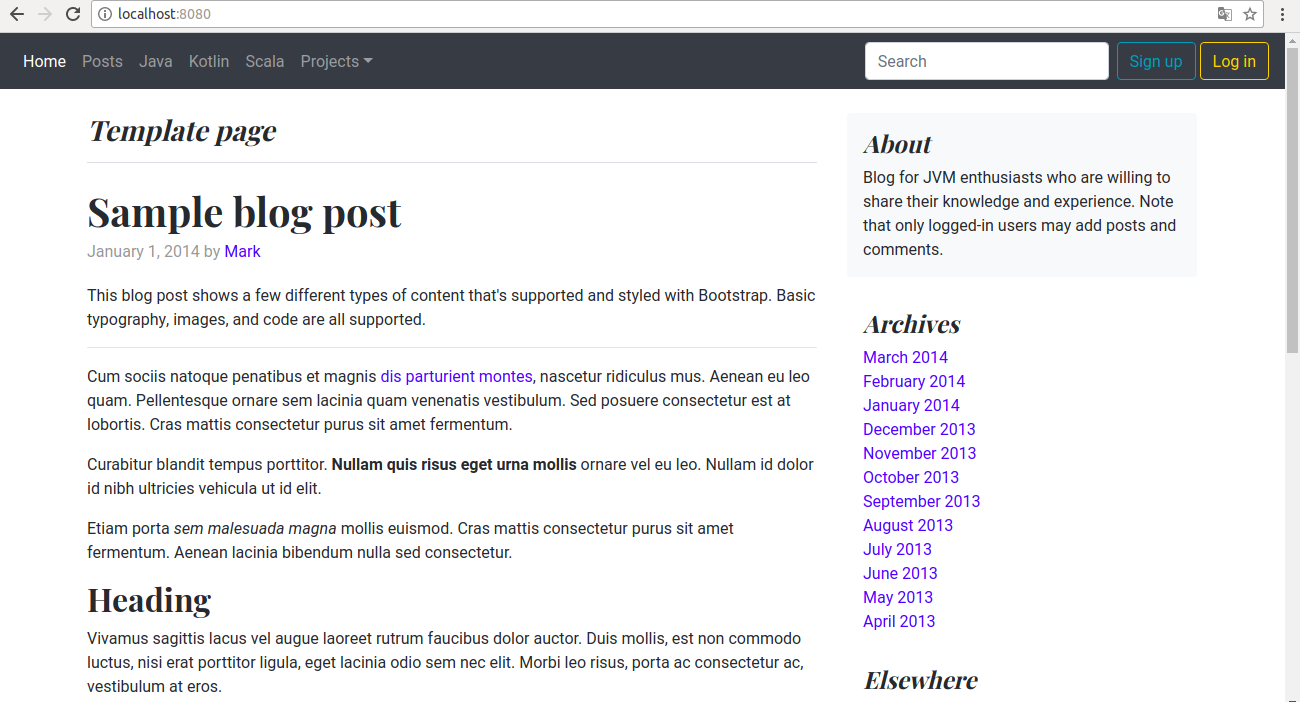
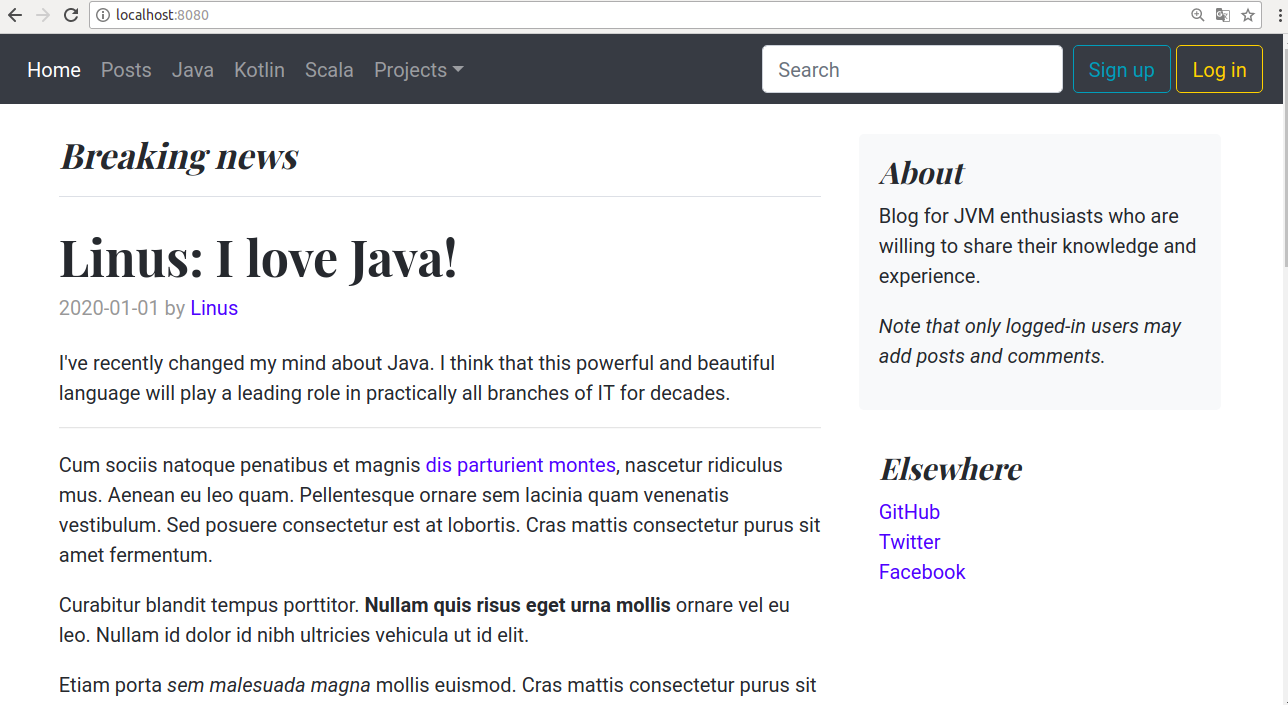
Main page slightly changed

diff --git a/src/main/resources/templates/index.html b/src/main/resources/templates/index.html
@@ -72,14 +72,14 @@
                 </form>
 
                 <h3 class="pb-3 mb-4 font-italic border-bottom">
-                    Template page
+                    Breaking news
                 </h3>
 
                 <div class="blog-post">
-                    <h2 class="blog-post-title">Sample blog post</h2>
-                    <p class="blog-post-meta">January 1, 2014 by <a href="#">Mark</a></p>
+                    <h2 class="blog-post-title">Linus: I love Java!</h2>
+                    <p class="blog-post-meta">2020-01-01 by <a href="#">Linus</a></p>
 
-                    <p>This blog post shows a few different types of content that's supported and styled with Bootstrap. Basic typography, images, and code are all supported.</p>
+                    <p>I've recently changed my mind about Java. I think that this powerful and beautiful language will play a leading role in practically all branches of IT for decades.</p>
                     <hr>
                     <p>Cum sociis natoque penatibus et magnis <a href="#">dis parturient montes</a>, nascetur ridiculus mus. Aenean eu leo quam. Pellentesque ornare sem lacinia quam venenatis vestibulum. Sed posuere consectetur est at lobortis. Cras mattis consectetur purus sit amet fermentum.</p>
                     <blockquote>
@@ -114,26 +114,9 @@
                 <div class="p-3 mb-3 bg-light rounded">
                     <h4 class="font-italic">About</h4>
                     <p class="mb-0">Blog for JVM enthusiasts
-                        who are willing to share their knowledge and experience.
+                        who are willing to share their knowledge and experience.</p>
+                    <p class="font-italic mt-3"  th:if="${loggedUser} == null">
                         Note that only logged-in users may add posts and comments. </p>
-                </div>
-
-                <div class="p-3">
-                    <h4 class="font-italic">Archives</h4>
-                    <ol class="list-unstyled mb-0">
-                        <li><a href="#">March 2014</a></li>
-                        <li><a href="#">February 2014</a></li>
-                        <li><a href="#">January 2014</a></li>
-                        <li><a href="#">December 2013</a></li>
-                        <li><a href="#">November 2013</a></li>
-                        <li><a href="#">October 2013</a></li>
-                        <li><a href="#">September 2013</a></li>
-                        <li><a href="#">August 2013</a></li>
-                        <li><a href="#">July 2013</a></li>
-                        <li><a href="#">June 2013</a></li>
-                        <li><a href="#">May 2013</a></li>
-                        <li><a href="#">April 2013</a></li>
-                    </ol>
                 </div>
 
                 <div class="p-3">
